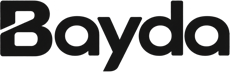
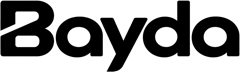
Publish site from cf2a8fd5

diff --git a/privacy/index.html b/privacy/index.html
@@ -42,7 +42,7 @@
   <a class="skip" href="#main">Skip to content</a>
   <header class="site-header">
     <div class="wrap">
-      <a class="brand" href="/" aria-label="Bayda home"><img class="brand-logo" src="/assets/wordmark.png" alt="Bayda" width="77" height="24"></a>
+      <a class="brand" href="/" aria-label="Bayda home"><img class="brand-logo" src="/assets/wordmark.png" alt="Bayda" width="80" height="24"></a>
       <nav class="nav" aria-label="Main">
         <ul class="nav-links">
           <li><a href="/#scan">Features</a></li>
@@ -61,7 +61,7 @@
     <article class="doc doc--legal">
 <h1>Privacy policy</h1>
 
-<p class="doc-meta"><span>Last updated: 13 October 2026</span><span class="sep" aria-hidden="true"> · </span><span>Version 2026-10-13</span></p>
+<p class="doc-meta"><span>Last updated: 14 October 2026</span><span class="sep" aria-hidden="true"> · </span><span>Version 2026-10-14</span></p>
 
 <p>Bayda is a training, running and nutrition tracker for iOS. This policy describes exactly what it stores, where, for how long, and on what legal basis. It is written against the app’s actual database schema rather than from a template. Every category below corresponds to a real table.</p>
 
@@ -84,7 +84,7 @@
 <tbody>
 <tr><td>Runs your account: sign-in, your profile, logging your workouts, food and weight, the social features (follow, like, comment, tag, the feed, notifications in the app)</td><td>Contract, <span class="nw">Article 6(1)(b)</span>: this is the service you asked for</td></tr>
 <tr><td>Processes your health data: weight, body fat, food diary, training, height, date of birth, sex, and the heart rate and energy read from Apple Health</td><td>Your explicit consent, <span class="nw">Article 6(1)(a)</span> and <span class="nw">Article 9(2)(a)</span>, given on the consent screen at setup (see <em>Health data</em> below)</td></tr>
-<tr><td>Shows your heart rate, heart-rate zones, power and calories to other people</td><td>Your explicit consent, <span class="nw">Article 6(1)(a)</span> and <span class="nw">Article 9(2)(a)</span>, given with a separate switch that is off unless you switch it on</td></tr>
+<tr><td>Shows your heart rate, heart-rate zones, power and calories to other people</td><td>Your explicit consent, <span class="nw">Article 6(1)(a)</span> and <span class="nw">Article 9(2)(a)</span>, given with the <em>Share heart rate and calories</em> switch in Settings, or by tapping <em>Show</em> when Bayda asks you once after your first session with heart rate; off unless you choose it</td></tr>
 <tr><td>Estimates a plate of food from a photo (the AI food scan)</td><td>Your consent, <span class="nw">Article 6(1)(a)</span> and <span class="nw">Article 9(2)(a)</span>, asked before the first photo is sent</td></tr>
 <tr><td>Sends push notifications</td><td>Your consent, <span class="nw">Article 6(1)(a)</span>: the notification permission on your phone</td></tr>
 <tr><td>Keeps the service secure and fair: rate limits, reports and moderation, refusing blocked words in comments and names, diagnostic logs and crash reports, the check for a newer build</td><td>Legitimate interests, <span class="nw">Article 6(1)(f)</span>: keeping Bayda safe, working and free of abuse. You can object, see <em>Your rights</em></td></tr>
@@ -120,9 +120,9 @@
 <li>your <strong>app settings</strong>: which meal sections you use, whether workout calories are added to your target, the rest timer, and your reminders and their times, so they come back when you sign in again or on another phone. Only you can read them.</li>
 </ul>
 
-<p>Under the GDPR this is <strong>special-category data concerning health (Article 9)</strong>. The lawful basis is your <strong>explicit consent (<span class="nw">Article 9(2)(a)</span>)</strong>, which Bayda asks for on a screen of its own before you enter any health information, at the start of setup. It says what is stored and why, and you agree by tapping <em>I agree</em>. Bayda records when you agreed and to which version of this policy, and that record is part of your data. Accounts created before 12 October 2026, during testing, were not shown this screen; your data export shows this as "pre_launch_tester", and you can withdraw by deleting your account. Bayda cannot work without this consent, so if you do not agree you cannot use the app. You can withdraw that consent at any time by deleting your account, which erases the data (see <em>Deleting your account</em>). In the app that is <em>Profile ▸ Settings ▸ Data &amp; account ▸ Withdraw health data consent</em>, which asks the same two confirmations as <em>Delete my account</em>. A consent to process health data is needed for Bayda to work at all, so there is no way to keep the account and withdraw it.</p>
+<p>Under the GDPR this is <strong>special-category data concerning health (Article 9)</strong>. The lawful basis is your <strong>explicit consent (<span class="nw">Article 9(2)(a)</span>)</strong>, which Bayda asks for on a screen of its own at the end of setup, before anything you entered leaves your phone. It says what is stored and why, and you agree by tapping <em>I agree</em>. Bayda records when you agreed and to which version of this policy, and that record is part of your data. Accounts created before 12 October 2026, during testing, were not shown this screen; your data export shows this as "pre_launch_tester", and you can withdraw by deleting your account. Bayda cannot work without this consent, so if you do not agree you cannot use the app. You can withdraw that consent at any time by deleting your account, which erases the data (see <em>Deleting your account</em>). In the app that is <em>Profile ▸ Settings ▸ Data &amp; account ▸ Withdraw health data consent</em>, which asks the same two confirmations as <em>Delete my account</em>. A consent to process health data is needed for Bayda to work at all, so there is no way to keep the account and withdraw it.</p>
 
-<p><strong>Showing your heart rate to other people is off unless you switch it on.</strong> What your body measured during a session (heart rate, its readings, your heart-rate zones, power and calories) is shown with that session to whoever can see it only if you switch on sharing: the separate switch on the consent screen (<em>Also share my heart rate</em>), which starts off and is not needed to use Bayda, or <em>Share heart rate and calories</em> under <em>Profile ▸ Settings ▸ Visibility</em>. Turning it off removes these figures from every session already shared, and while it is off the database itself refuses to publish them. You can also hide them on any single session (<em>Hidden details</em>, below). From 6 to 12 October 2026 sharing was on by default; on 12 October 2026 it was switched off for every account that had not switched it on itself, and the figures shared under that default were taken down.</p>
+<p><strong>Showing your heart rate to other people is off unless you switch it on.</strong> What your body measured during a session (heart rate, its readings, your heart-rate zones, power and calories) is shown with that session to whoever can see it only if you switch on sharing with <em>Share heart rate and calories</em> under <em>Profile ▸ Settings ▸ Visibility</em>, which starts off and is not needed to use Bayda. After your first session with heart rate, Bayda asks you once whether to show it; <em>Not now</em> leaves it off and you are not asked again. Agreeing on the consent screen does not switch it on. Turning it off removes these figures from every session already shared, and while it is off the database itself refuses to publish them. You can also hide them on any single session (<em>Hidden details</em>, below). From 6 to 12 October 2026 sharing was on by default; on 12 October 2026 it was switched off for every account that had not switched it on itself, and the figures shared under that default were taken down.</p>
 
 <p><strong>Your food diary, weight and body fat, height, date of birth, sex, calorie and macro targets, goals, the history of your targets and goals, the days you mark complete, and your choice of Home cards are never shared with anyone.</strong> There is no setting that shares them. They are readable only by your own account, enforced in the database itself and not merely in the app.</p>
 

diff --git a/404.html b/404.html
@@ -42,7 +42,7 @@
   <a class="skip" href="#main">Skip to content</a>
   <header class="site-header">
     <div class="wrap">
-      <a class="brand" href="/" aria-label="Bayda home"><img class="brand-logo" src="/assets/wordmark.png" alt="Bayda" width="77" height="24"></a>
+      <a class="brand" href="/" aria-label="Bayda home"><img class="brand-logo" src="/assets/wordmark.png" alt="Bayda" width="80" height="24"></a>
       <nav class="nav" aria-label="Main">
         <ul class="nav-links">
           <li><a href="/#scan">Features</a></li>

diff --git a/legal/index.html b/legal/index.html
@@ -42,7 +42,7 @@
   <a class="skip" href="#main">Skip to content</a>
   <header class="site-header">
     <div class="wrap">
-      <a class="brand" href="/" aria-label="Bayda home"><img class="brand-logo" src="/assets/wordmark.png" alt="Bayda" width="77" height="24"></a>
+      <a class="brand" href="/" aria-label="Bayda home"><img class="brand-logo" src="/assets/wordmark.png" alt="Bayda" width="80" height="24"></a>
       <nav class="nav" aria-label="Main">
         <ul class="nav-links">
           <li><a href="/#scan">Features</a></li>

diff --git a/support/index.html b/support/index.html
@@ -42,7 +42,7 @@
   <a class="skip" href="#main">Skip to content</a>
   <header class="site-header">
     <div class="wrap">
-      <a class="brand" href="/" aria-label="Bayda home"><img class="brand-logo" src="/assets/wordmark.png" alt="Bayda" width="77" height="24"></a>
+      <a class="brand" href="/" aria-label="Bayda home"><img class="brand-logo" src="/assets/wordmark.png" alt="Bayda" width="80" height="24"></a>
       <nav class="nav" aria-label="Main">
         <ul class="nav-links">
           <li><a href="/#scan">Features</a></li>

diff --git a/terms/index.html b/terms/index.html
@@ -42,7 +42,7 @@
   <a class="skip" href="#main">Skip to content</a>
   <header class="site-header">
     <div class="wrap">
-      <a class="brand" href="/" aria-label="Bayda home"><img class="brand-logo" src="/assets/wordmark.png" alt="Bayda" width="77" height="24"></a>
+      <a class="brand" href="/" aria-label="Bayda home"><img class="brand-logo" src="/assets/wordmark.png" alt="Bayda" width="80" height="24"></a>
       <nav class="nav" aria-label="Main">
         <ul class="nav-links">
           <li><a href="/#scan">Features</a></li>

diff --git a/index.html b/index.html
@@ -72,7 +72,7 @@
   <a class="skip" href="#main">Skip to content</a>
   <header class="site-header">
     <div class="wrap">
-      <a class="brand" href="/" aria-label="Bayda home"><img class="brand-logo" src="/assets/wordmark.png" alt="Bayda" width="77" height="24"></a>
+      <a class="brand" href="/" aria-label="Bayda home"><img class="brand-logo" src="/assets/wordmark.png" alt="Bayda" width="80" height="24"></a>
       <nav class="nav" aria-label="Main">
         <ul class="nav-links">
           <li><a href="#scan">Features</a></li>
